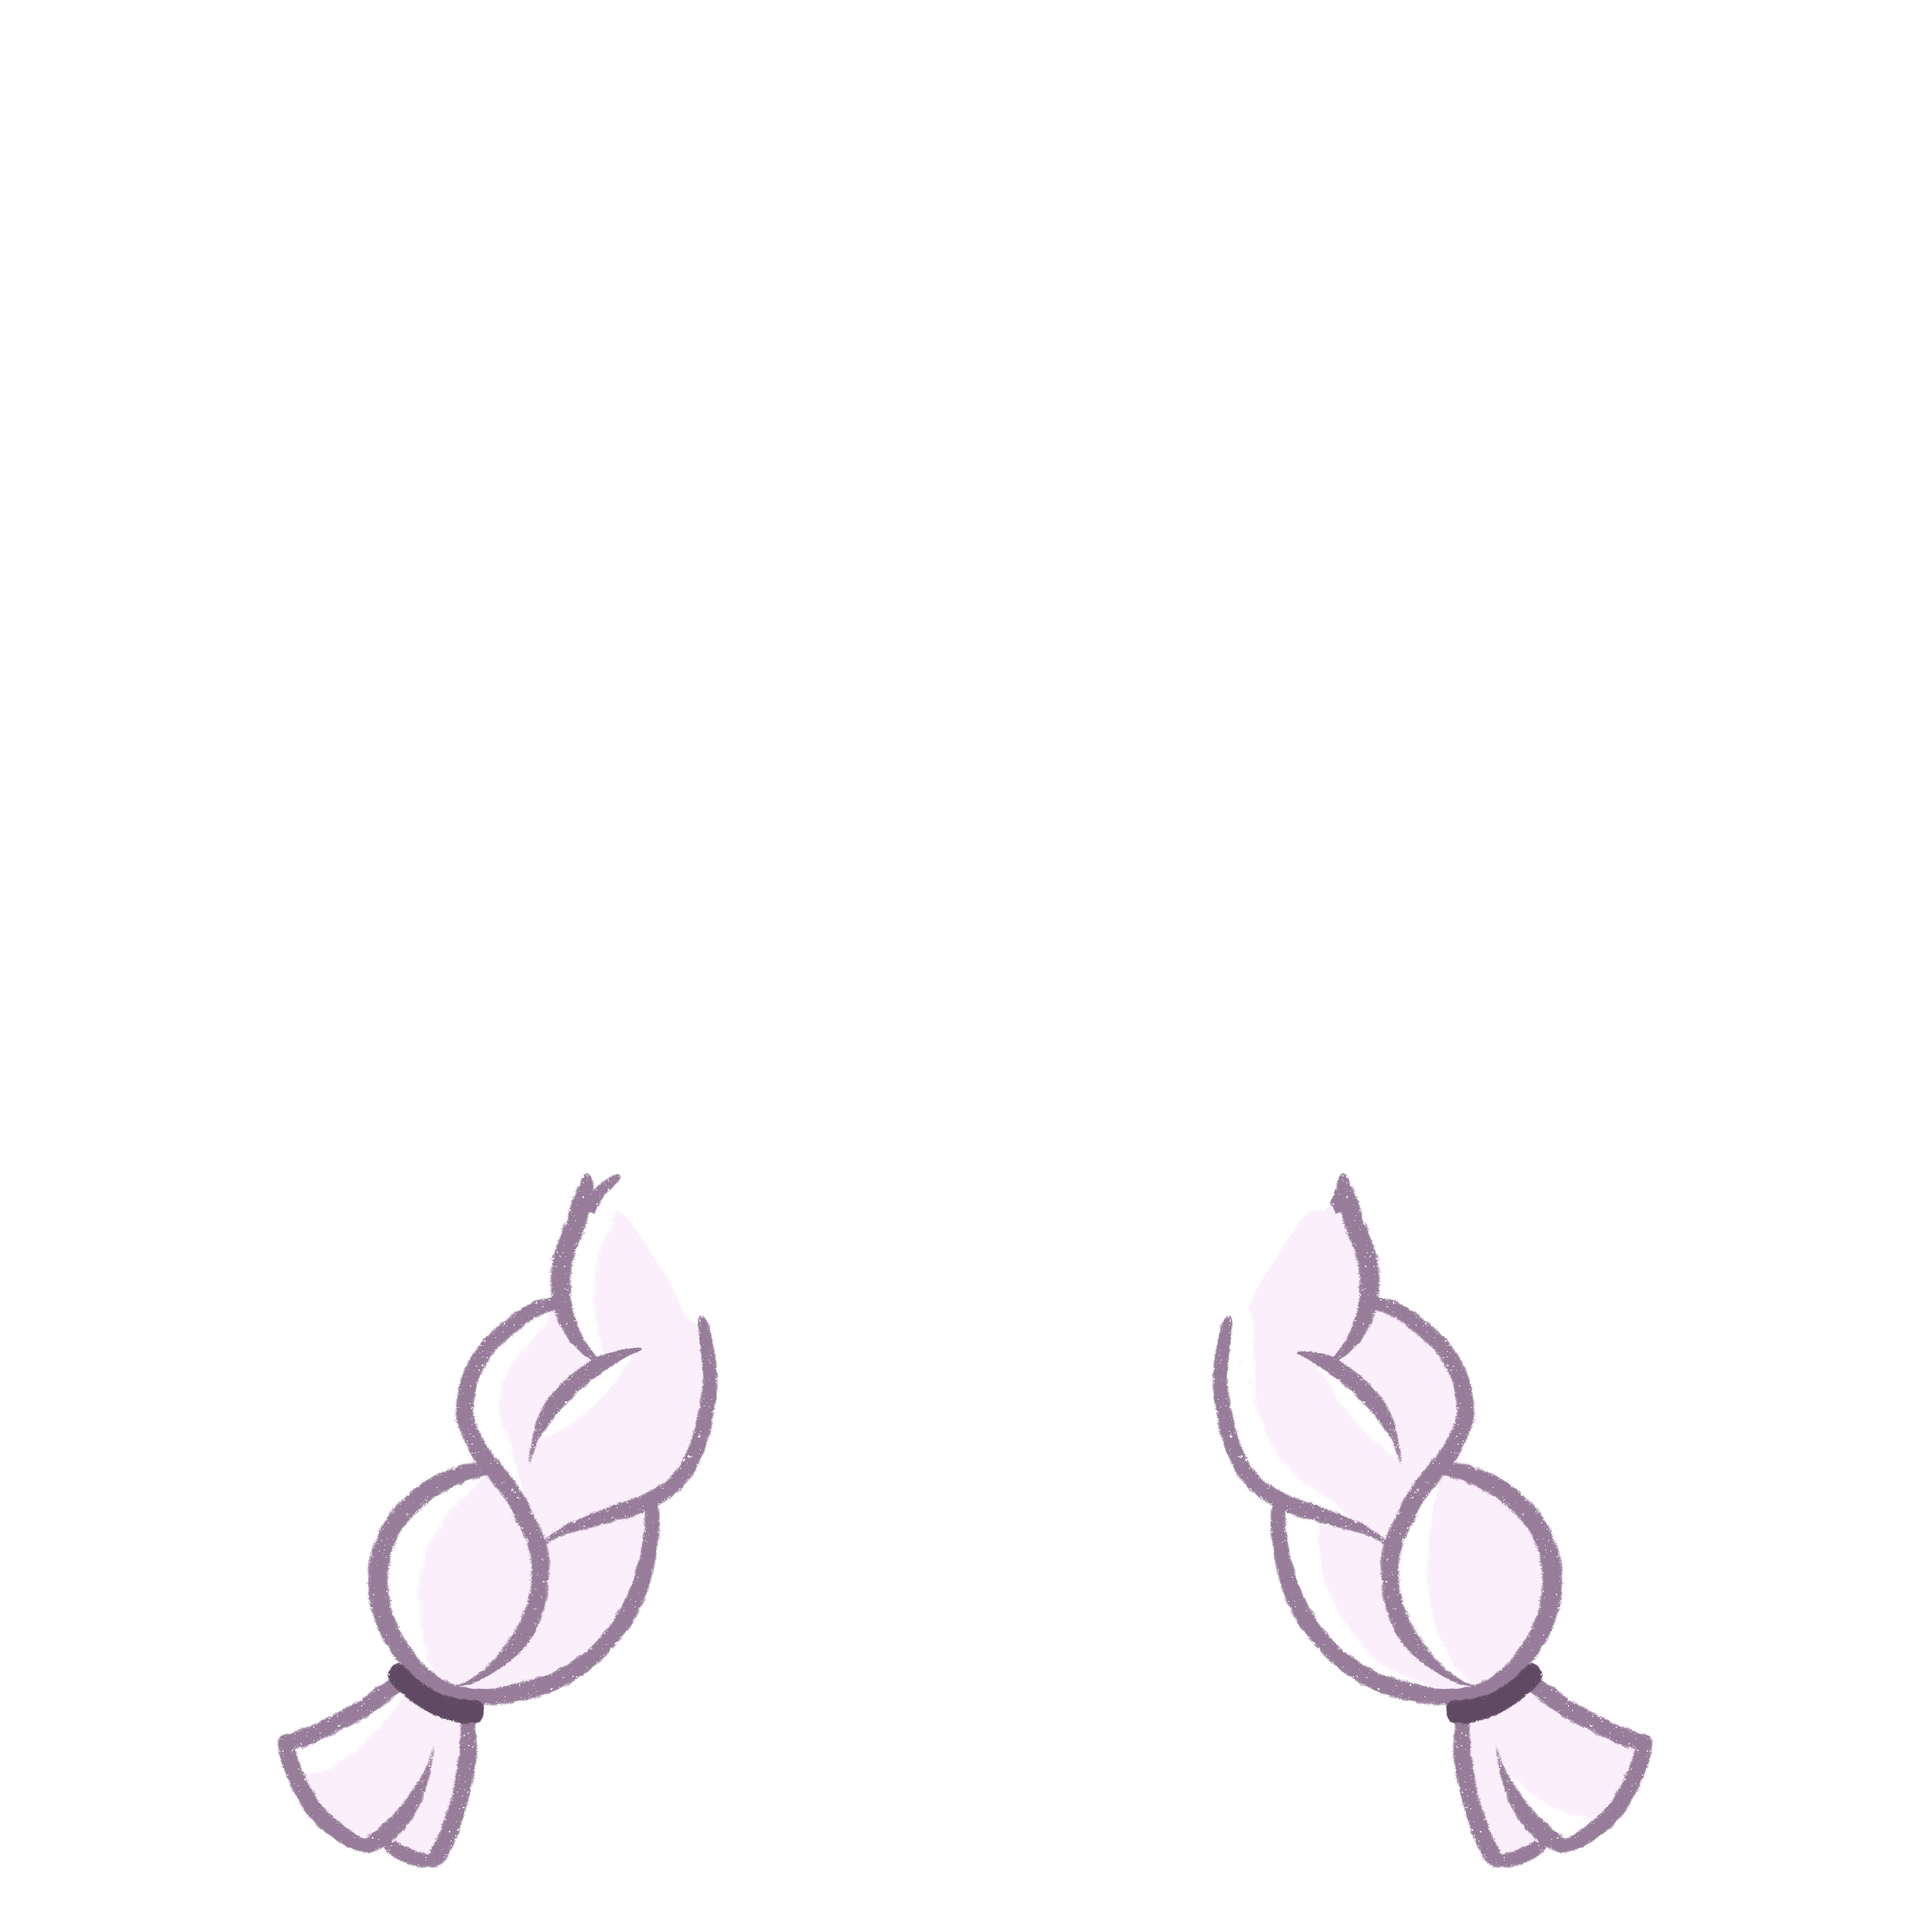
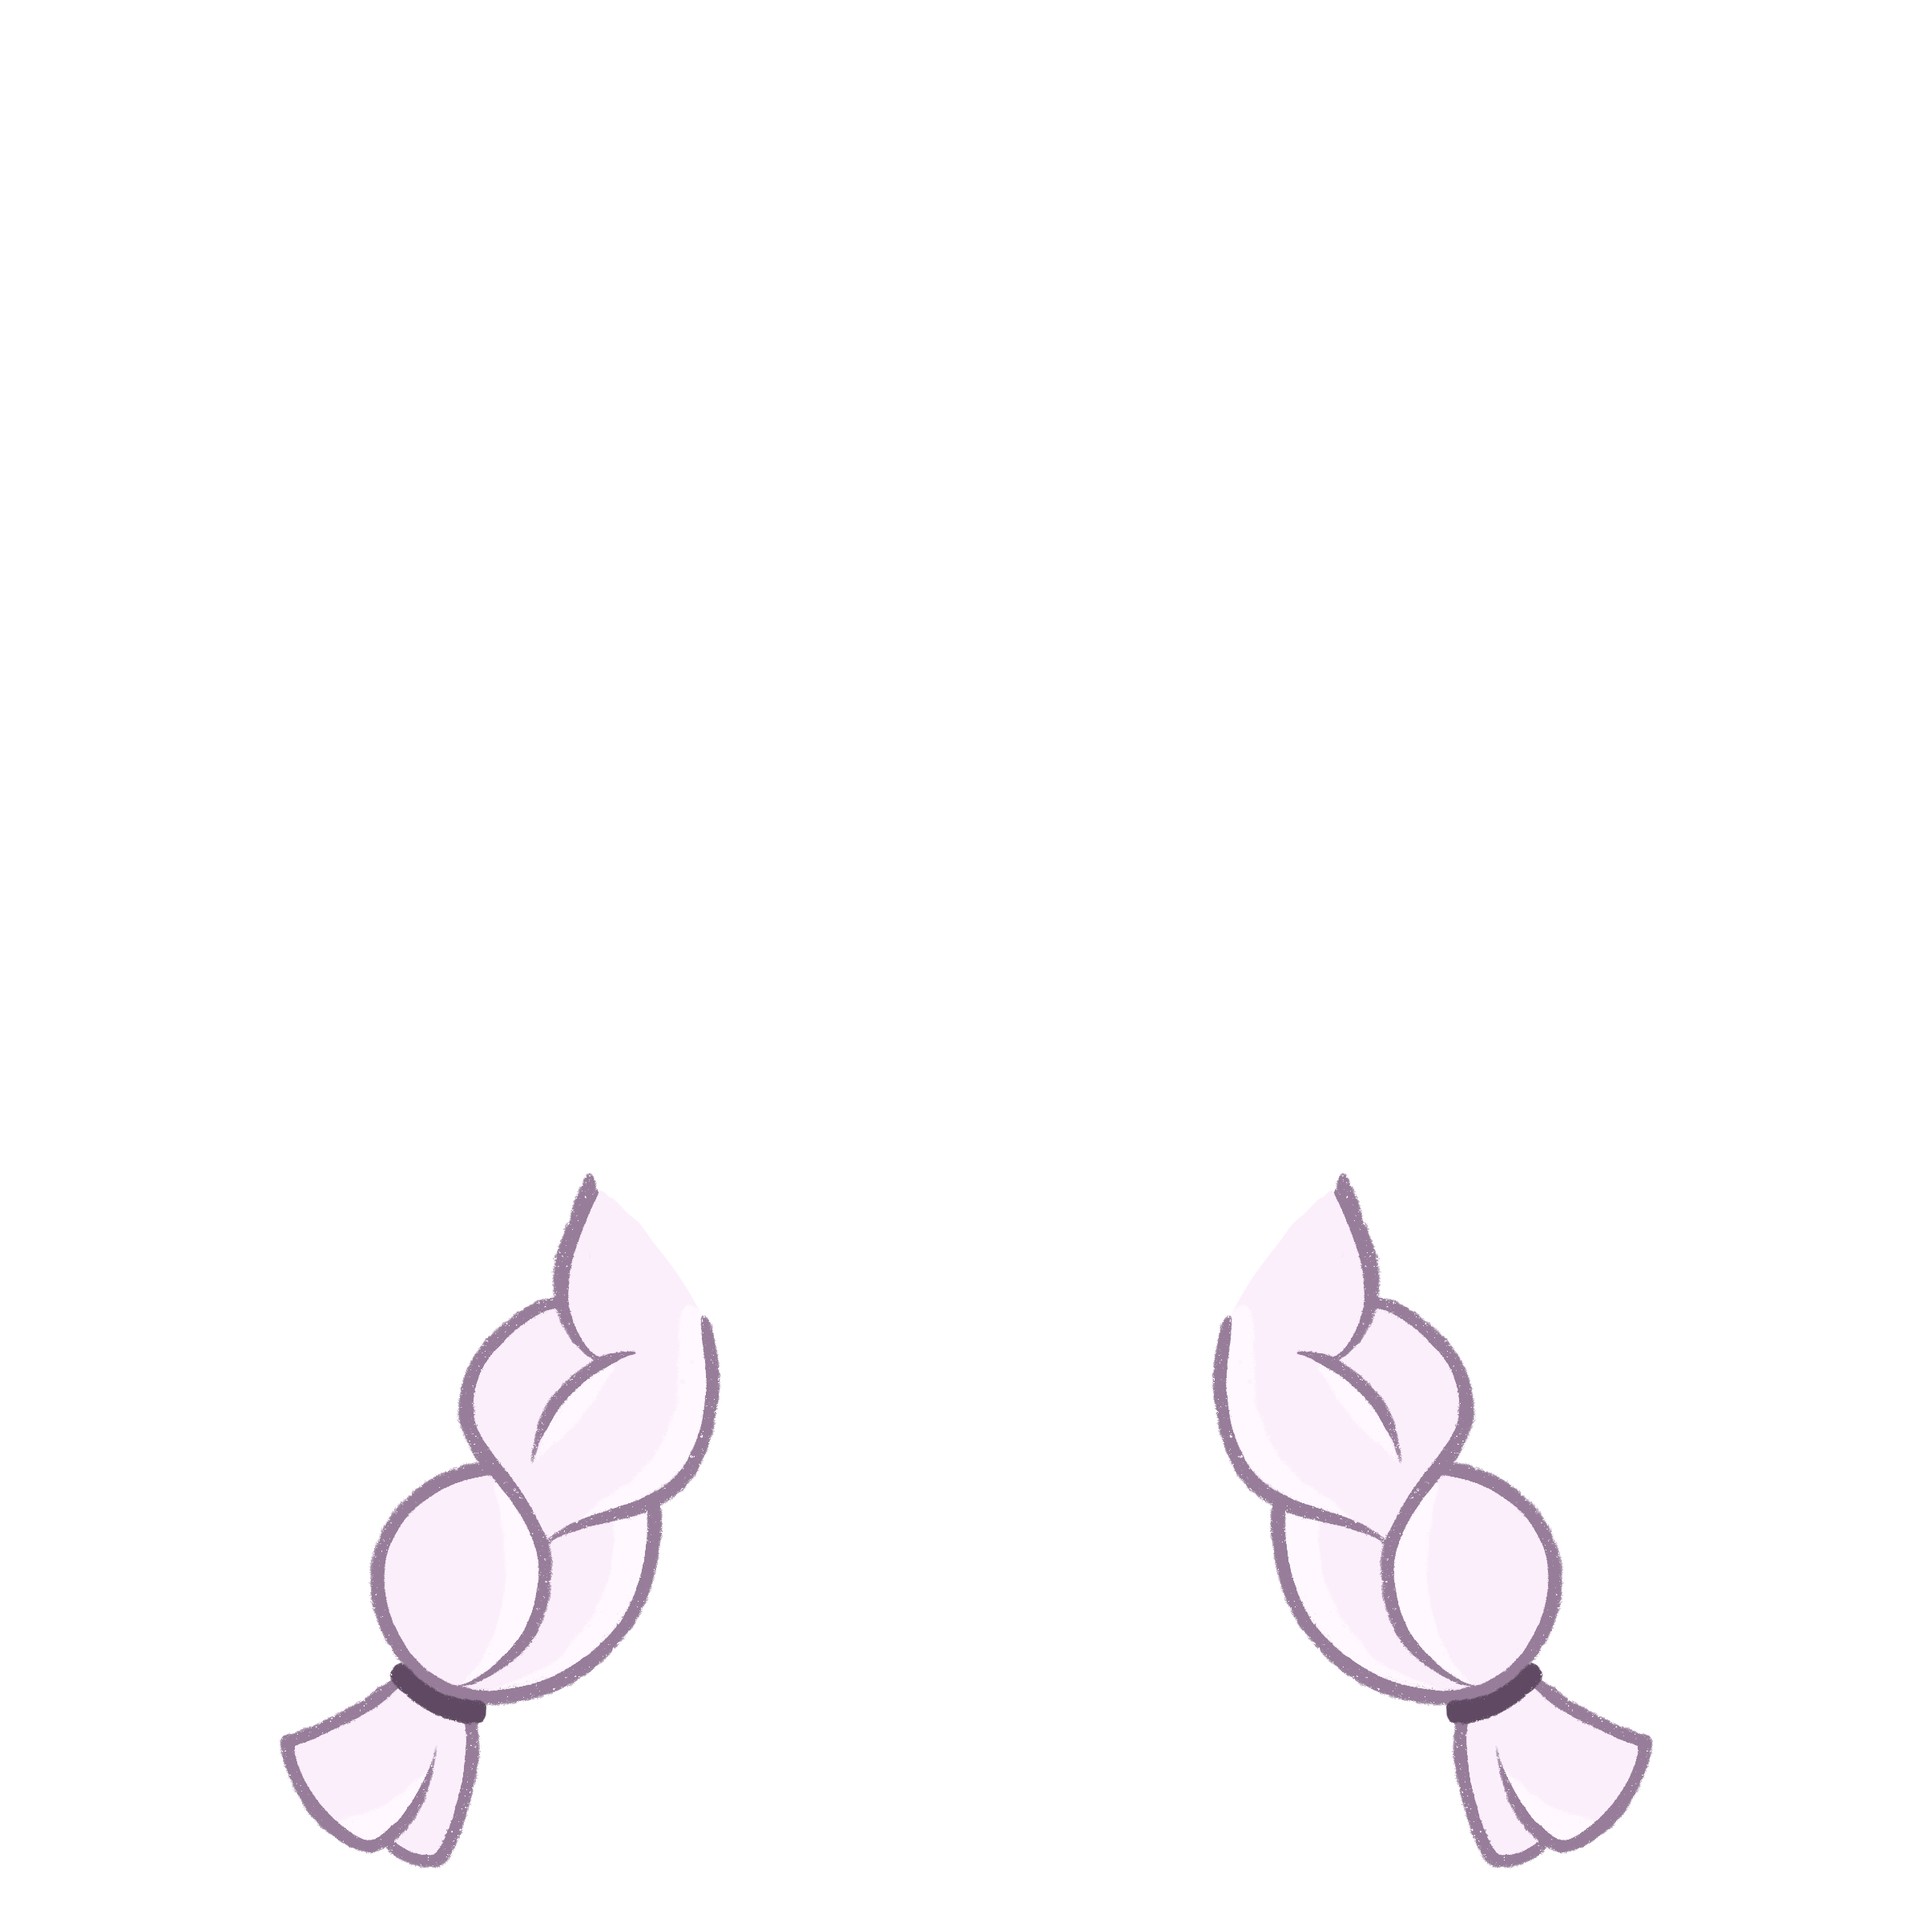
w

diff --git a/src/main.js b/src/main.js
@@ -473,7 +473,7 @@ function pickRandomElement(
   zIndex,
   hairColor
 ) {
-
+  console.log({ layer, dnaSequence, incompatibleDNA, forcedDNA, bypassDNA})
   let totalWeight = 0;
   // Does this layer include a forcedDNA item? ya? just return it.
   const forcedPick = layer.elements.find((element) => {
@@ -512,9 +512,12 @@ function pickRandomElement(
     return dnaSequence;
   }
 
+  // console.log({ before: layer.elements})
+  // console.log({ incompatibleDNA})
   const compatibleLayers = layer.elements.filter(
     (layer) => !incompatibleDNA.includes(layer.name)
   );
+  // console.log({ after: compatibleLayers})
   if (compatibleLayers.length === 0) {
     debugLogs
       ? console.log(
@@ -556,7 +559,7 @@ function pickRandomElement(
   // if the entire directory should be ignored…
 
   // number between 0 - totalWeight
-  const currentLayers = compatibleLayers.filter((l) => l.weight !== "required");
+  const currentLayers = compatibleLayers.filter((layer) => layer.weight !== "required");
 
   let random = Math.floor(Math.random() * totalWeight);
 
@@ -815,8 +818,15 @@ const outputFiles = (abstractedIndexes, layerData, hairColor) => {
   );
 };
 
+const HAIR_COLORS = [
+  'Brown',
+  'Light Lilac',
+  // 'Pink',
+  'White',
+];
 const getHairColor = () => {
-  return 'Brown';
+  const randomIndex = Math.floor(Math.random() * HAIR_COLORS.length);
+  return HAIR_COLORS[randomIndex];
 }
 
 const startCreating = async (storedDNA) => {

diff --git a/src/config.js b/src/config.js
@@ -43,7 +43,7 @@ const background = {
 
 const layerConfigurations = [
   {
-    growEditionSizeTo: 10,
+    growEditionSizeTo: 1,
     namePrefix: "WITCH", // Use to add a name to Metadata `name:`
     layersOrder: [
       {
@@ -102,7 +102,9 @@ const debugLogs = true;
 const emptyLayerName = "NONE";
 
 const HAG_ONLY = [
-  'Peony Crown (Pink)',
+  // 'Peony Crown (Pink)',
+  // 'Moon Mark (White)',
+  // 'Nega Moon Mark (Black)',
 ];
 
 const ENCHANTRESS_ONLY = [
@@ -110,7 +112,7 @@ const ENCHANTRESS_ONLY = [
 ];
 
 const MAGE_ONLY = [
-
+  // 'Mage Mark Moon (White)',
 ];
 
 const NECROMANCER_ONLY = [
@@ -136,6 +138,22 @@ const incompatible = {
   'Lower Buns': ['Baby Drill Curls'],
   'Nega Moon Mark (Black)': ['Relaxed Bubble', 'Surprised Bubble', 'Woeful', 'Soft Bob'],
   'Moon Mark (White)': ['Soft Bob'],
+  'Mage Mark Moon (Blue)': ['Soft Bob'],
+  'Mage Mark Moon (White)': ['Soft Bob'],
+
+  // hair color
+  'Baby Drill Curls_Light Lilac': ['Sunset'],
+  'Soft Bob_Light Lilac': ['Sunset'],
+  'Xuannu_Light Lilac': ['Sunset'],
+  'Lower Buns_Light Lilac': ['Sunset'],
+  'Pigtails_Light Lilac': ['Sunset'],
+
+  // skin color
+  'Sunset': [
+    'Soft Bob_Light Lilac',
+    'Xuannu_Light Lilac',
+    'Baby Drill Curls_Light Lilac',
+  ],
 
   // archetype
   'Enchantress': [...HAG_ONLY, ...MAGE_ONLY, ...NECROMANCER_ONLY, ...OCCULTIST_ONLY, ...SEER_ONLY],
